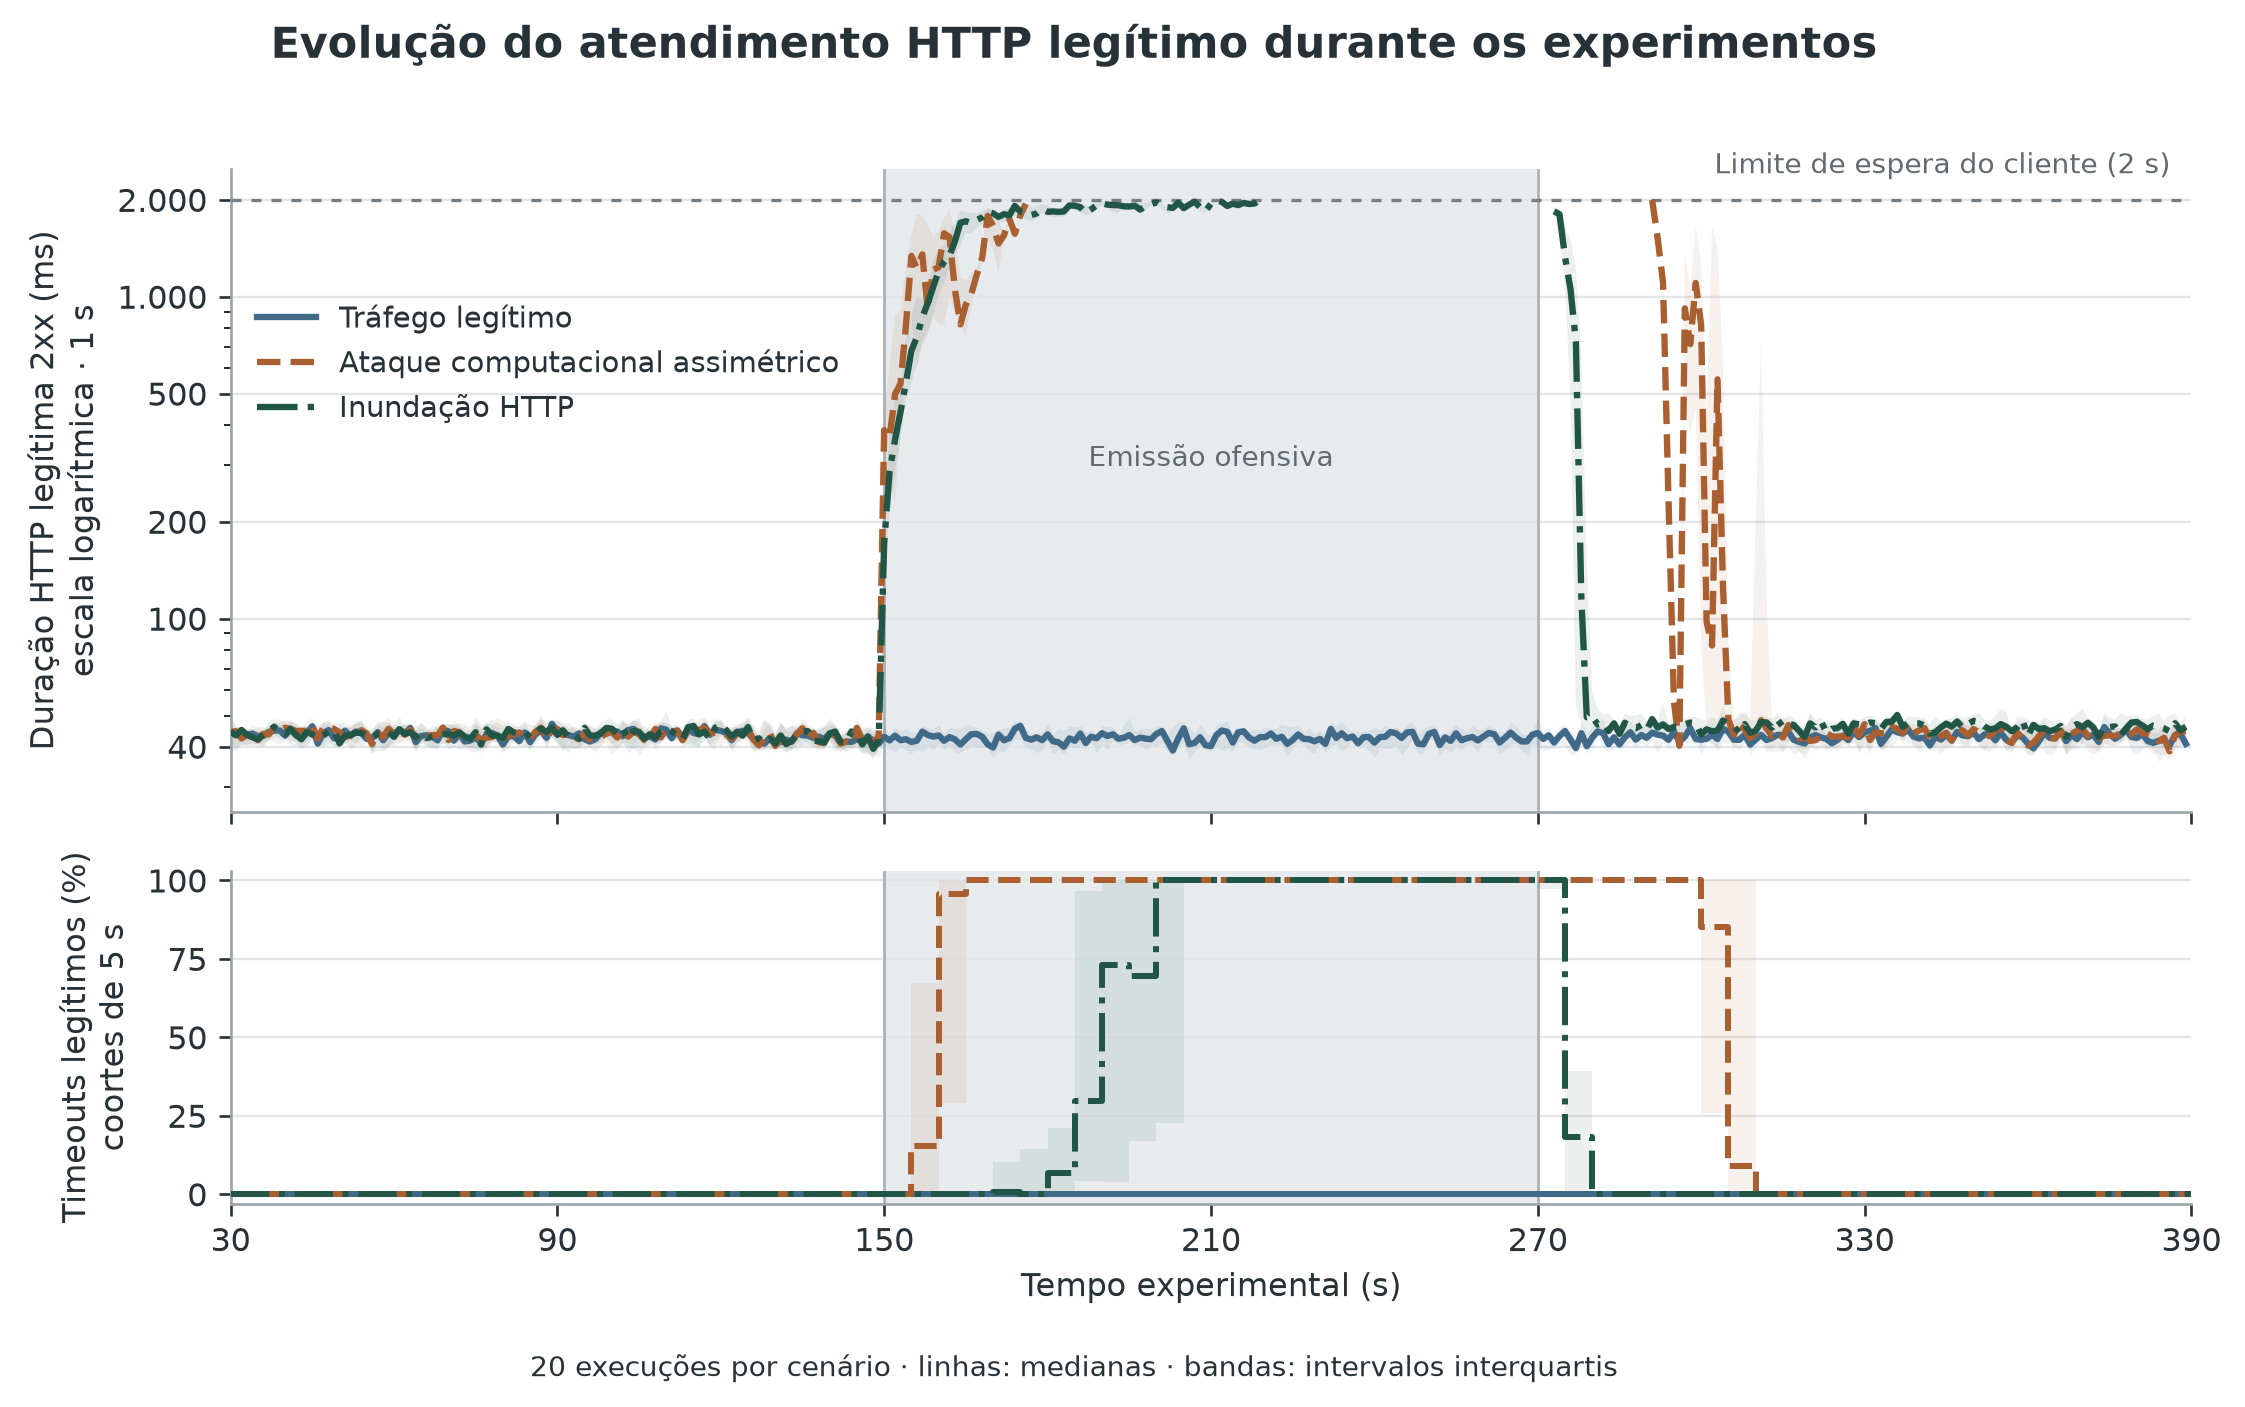
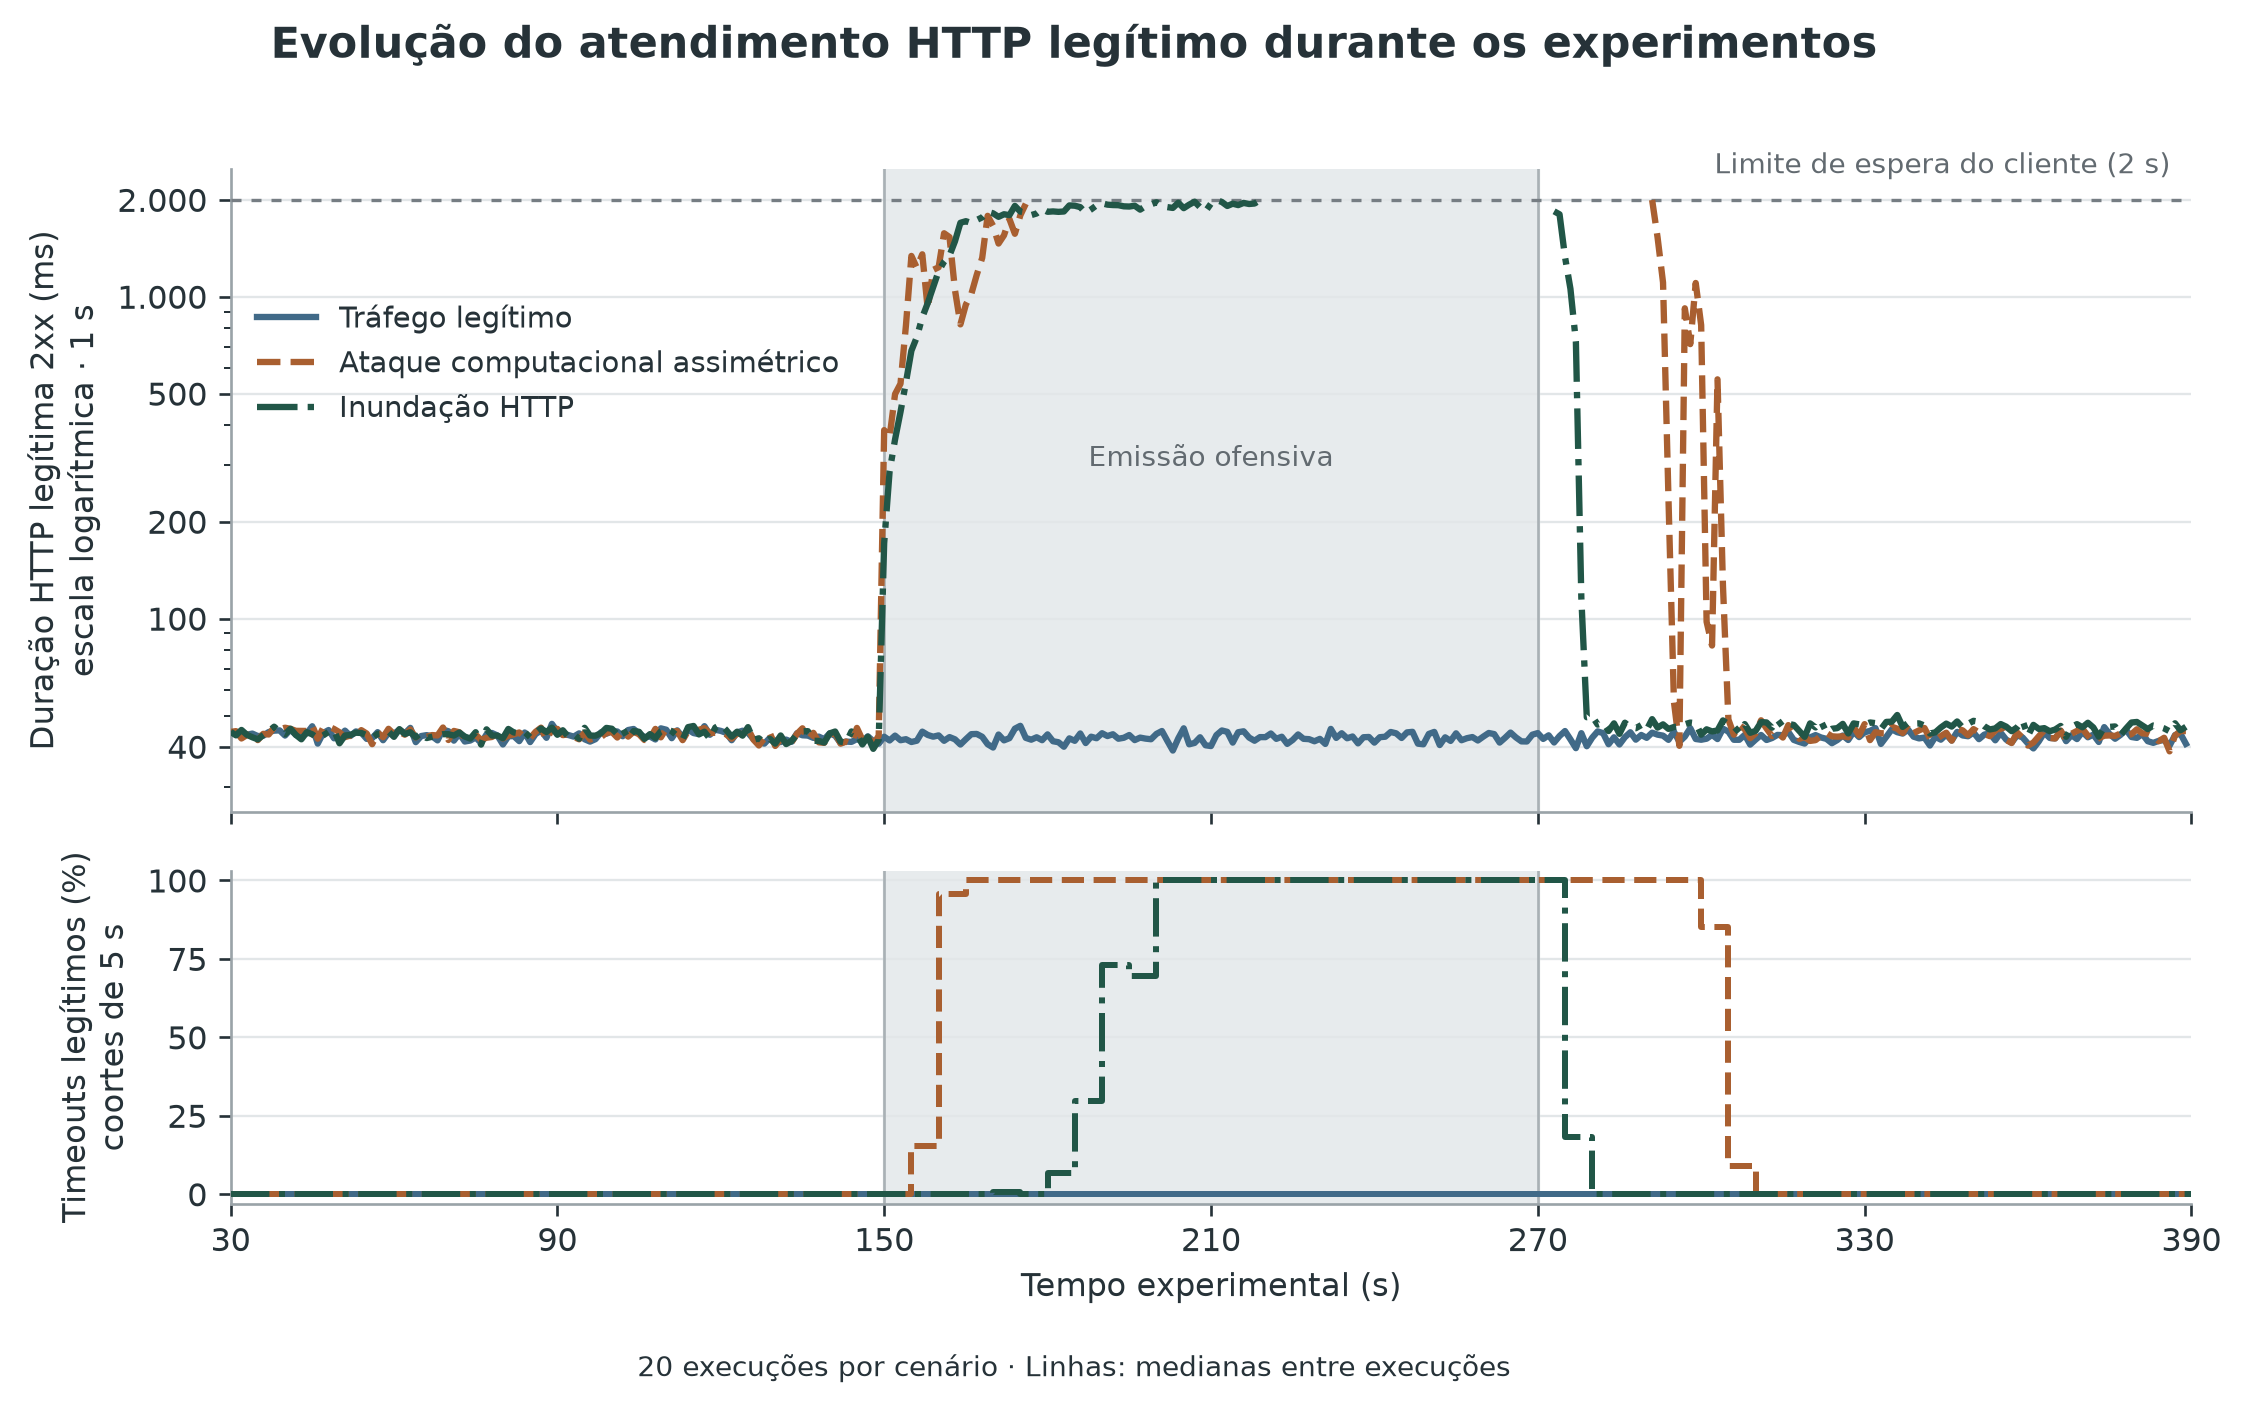
refactor: simplify visual representation in F5.2-A and update script for selective figure generation

diff --git a/reports/capitulo5_figuras/lote2_atendimento_legitimo/scripts/generate.py b/reports/capitulo5_figuras/lote2_atendimento_legitimo/scripts/generate.py
@@ -5,6 +5,7 @@ from __future__ import annotations
 
 import hashlib
 import json
+import sys
 from pathlib import Path
 
 import matplotlib
@@ -263,18 +264,11 @@ def figure_duration_timeouts(duration: pd.DataFrame, timeouts: pd.DataFrame) -> 
     for s in SCENARIOS:
         z = duration[duration.scenario == s].sort_values("second")
         x = z.second.to_numpy()
-        # All three summaries use the same nonmissing per-run second means.
-        ax.fill_between(x, z.q1_ms.to_numpy(dtype=float), z.q3_ms.to_numpy(dtype=float),
-                        color=COLORS[s], alpha=.085, linewidth=0, zorder=2)
         ax.plot(x, z.median_ms.to_numpy(dtype=float), color=COLORS[s], ls=STYLES[s],
                 lw=1.9, label=NAMES[s], zorder=4)
         t = timeouts[timeouts.scenario == s].sort_values("window_start_s")
         tx = np.append(t.window_start_s.to_numpy(), 390)
-        q1 = np.append(t.q1_pct.to_numpy(dtype=float), float(t.q1_pct.iloc[-1]))
-        q3 = np.append(t.q3_pct.to_numpy(dtype=float), float(t.q3_pct.iloc[-1]))
         median = np.append(t.median_pct.to_numpy(dtype=float), float(t.median_pct.iloc[-1]))
-        lower.fill_between(tx, q1, q3,
-                           step="post", color=COLORS[s], alpha=.085, linewidth=0, zorder=2)
         lower.step(tx, median, where="post", color=COLORS[s],
                    ls=STYLES[s], lw=1.8, zorder=4)
     ax.axhline(2000, color="#767D83", lw=1.0, ls=(0, (3, 3)), zorder=3)
@@ -295,7 +289,7 @@ def figure_duration_timeouts(duration: pd.DataFrame, timeouts: pd.DataFrame) -> 
     lower.set_xlabel("Tempo experimental (s)")
     fig.suptitle("Evolução do atendimento HTTP legítimo durante os experimentos", fontsize=13,
                  fontweight="bold", y=.995)
-    fig.text(.5, .015, "20 execuções por cenário · linhas: medianas · bandas: intervalos interquartis", ha="center", fontsize=8.5, color=TEXT)
+    fig.text(.5, .015, "20 execuções por cenário · Linhas: medianas entre execuções", ha="center", fontsize=8.5, color=TEXT)
     fig.subplots_adjust(left=.13, right=.99, top=.89, bottom=.14)
     save(fig, "f52a_duracao_http_timeouts_alternativa")
 
@@ -348,6 +342,14 @@ def figure_outcomes(out: pd.DataFrame) -> None:
 
 def main() -> None:
     style()
+    if sys.argv[1:] == ["--f52a-only"]:
+        processed = OUT / "processed"
+        duration = pd.read_csv(processed / "f52a_duracao_por_segundo.csv")
+        timeouts = pd.read_csv(processed / "f52a_timeouts_5s_resumo.csv")
+        assert len(duration) == 3 * 360 and len(timeouts) == 3 * 72
+        figure_duration_timeouts(duration, timeouts)
+        return
+    assert len(sys.argv) == 1, "Use --f52a-only para regenerar apenas F5.2-A"
     series, active, meta = validate_and_load()
     duration = derive_duration(series, meta)
     outcomes = derive_outcomes(active, meta)

diff --git a/reports/capitulo5_figuras/lote2_atendimento_legitimo/README.md b/reports/capitulo5_figuras/lote2_atendimento_legitimo/README.md
@@ -76,8 +76,8 @@ de **816,7 ms**, Q1 de **82,1 ms** e Q3 de **1.273,4 ms**. Em 302 s, 8 execuçõ
 produziram mediana de 82,5 ms e Q3 de 1.670,4 ms. A mistura de respostas
 rápidas e demoradas produz uma banda alta com mediana próxima da base;
 a linha tracejada, interrompida nos segundos sem 2xx, pode parecer ausente
-em escala reduzida. A alternativa reduz a opacidade da banda e aumenta a
-espessura da mediana, sempre desenhada acima das bandas.
+em escala reduzida. A versão final da alternativa apresenta somente as
+medianas; Q1 e Q3 permanecem no CSV derivado, sem bandas no gráfico.
 
 Na **alternativa**, o painel inferior mostra timeouts legítimos em janelas
 sem sobreposição de 5 s, alinhadas a 30, 150 e 270 s. Para cada execução,
@@ -85,7 +85,8 @@ sem sobreposição de 5 s, alinhadas a 30, 150 e 270 s. Para cada execução,
 início HTTP** de `series_1s.csv` dentro da janela; o desfecho pode ocorrer
 depois. São 52 a 107 tentativas por execução e janela, sem denominadores
 zero; as 72 janelas de cada execução permanecem dentro de uma única fase.
-A mediana e Q1–Q3 são calculados entre as 20 proporções de execução; nenhuma
+A mediana e Q1–Q3 são calculados entre as 20 proporções de execução, mas
+somente as medianas são desenhadas; nenhuma
 requisição individual é tratada como repetição experimental. As somas das
 24 janelas ACTIVE foram verificadas contra `http_phases.csv` em cada execução.
 O painel superior continua em janelas de 1 s. A cobertura original está
@@ -125,13 +126,16 @@ denominadores permaneceram inalterados. O rodapé foi reduzido.
 
 ## Reprodução e verificações
 
-Na raiz do repositório:
+Para reproduzir **somente a simplificação visual da F5.2-A**, na raiz do
+repositório:
 
 ```bash
-.venv/bin/python -B reports/capitulo5_figuras/lote2_atendimento_legitimo/scripts/generate.py
+.venv/bin/python -B reports/capitulo5_figuras/lote2_atendimento_legitimo/scripts/generate.py --f52a-only
 ```
 
-O script verifica os 20 blocos completos, a configuração das 60 execuções,
+Esse modo lê somente os dois CSV derivados e grava somente o PDF e o PNG da
+alternativa F5.2-A. A execução integral, sem essa opção, verifica os 20
+blocos completos, a configuração das 60 execuções,
 o timeout de 2 segundos, as somas exclusivas de desfechos, a igualdade das
 contagens ACTIVE entre as duas análises e, para cada segundo válido de
 `[30,390)`, a concordância da média de duração com os CSV HTTP auditados.
